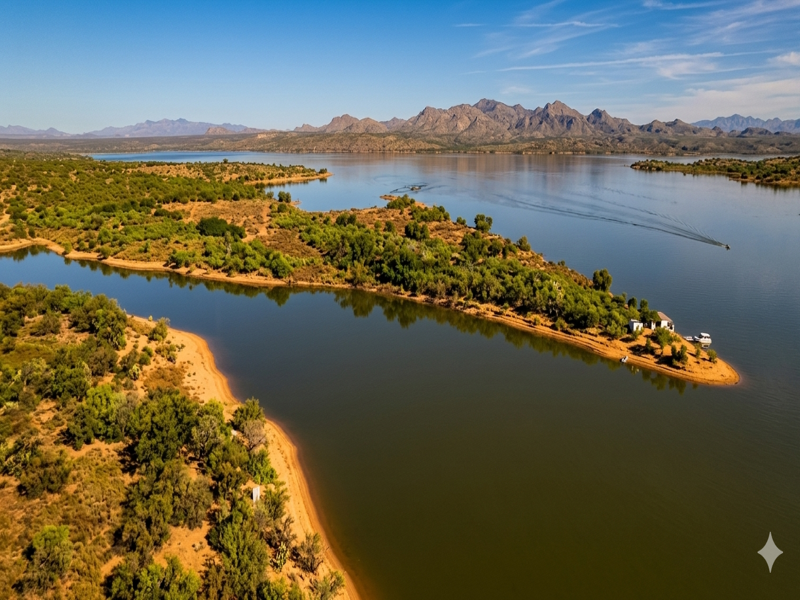
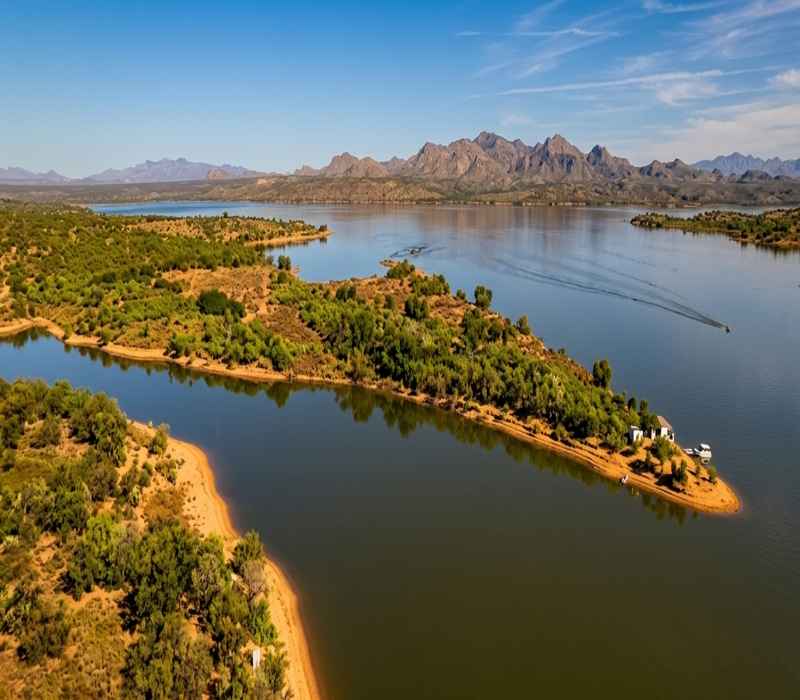
Fix: landamrk image size

diff --git a/src/components/landmarks.tsx b/src/components/landmarks.tsx
@@ -113,7 +113,7 @@ function LandmarkCard({ imageUrl, title, description, Icon, id }: Props) {
           src={imageUrl}
           alt="banner"
           fill
-          className="object-contain"
+          className="object-cover md:object-contain"
           sizes="(max-width: 768px) 100vw, 33wv"
         />
       </div>